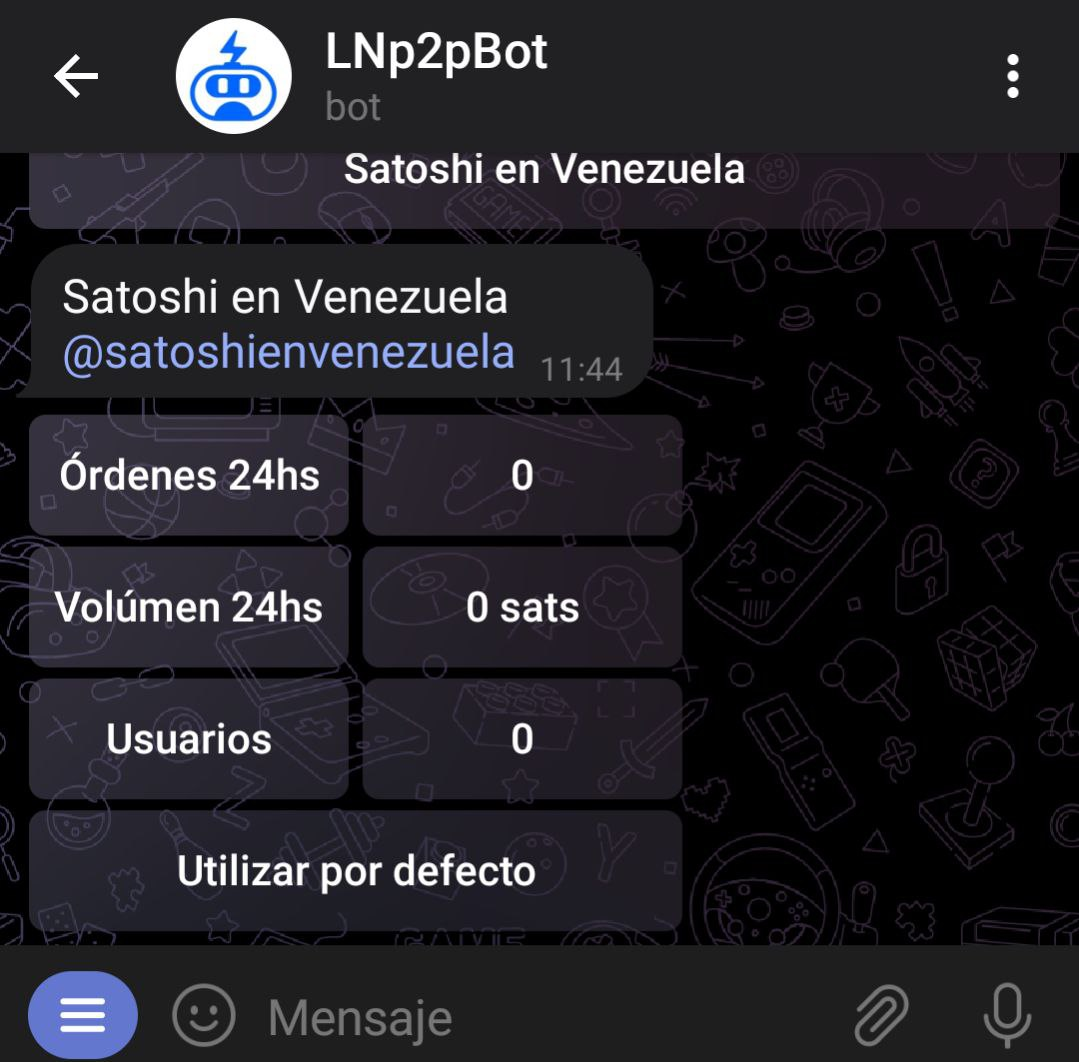
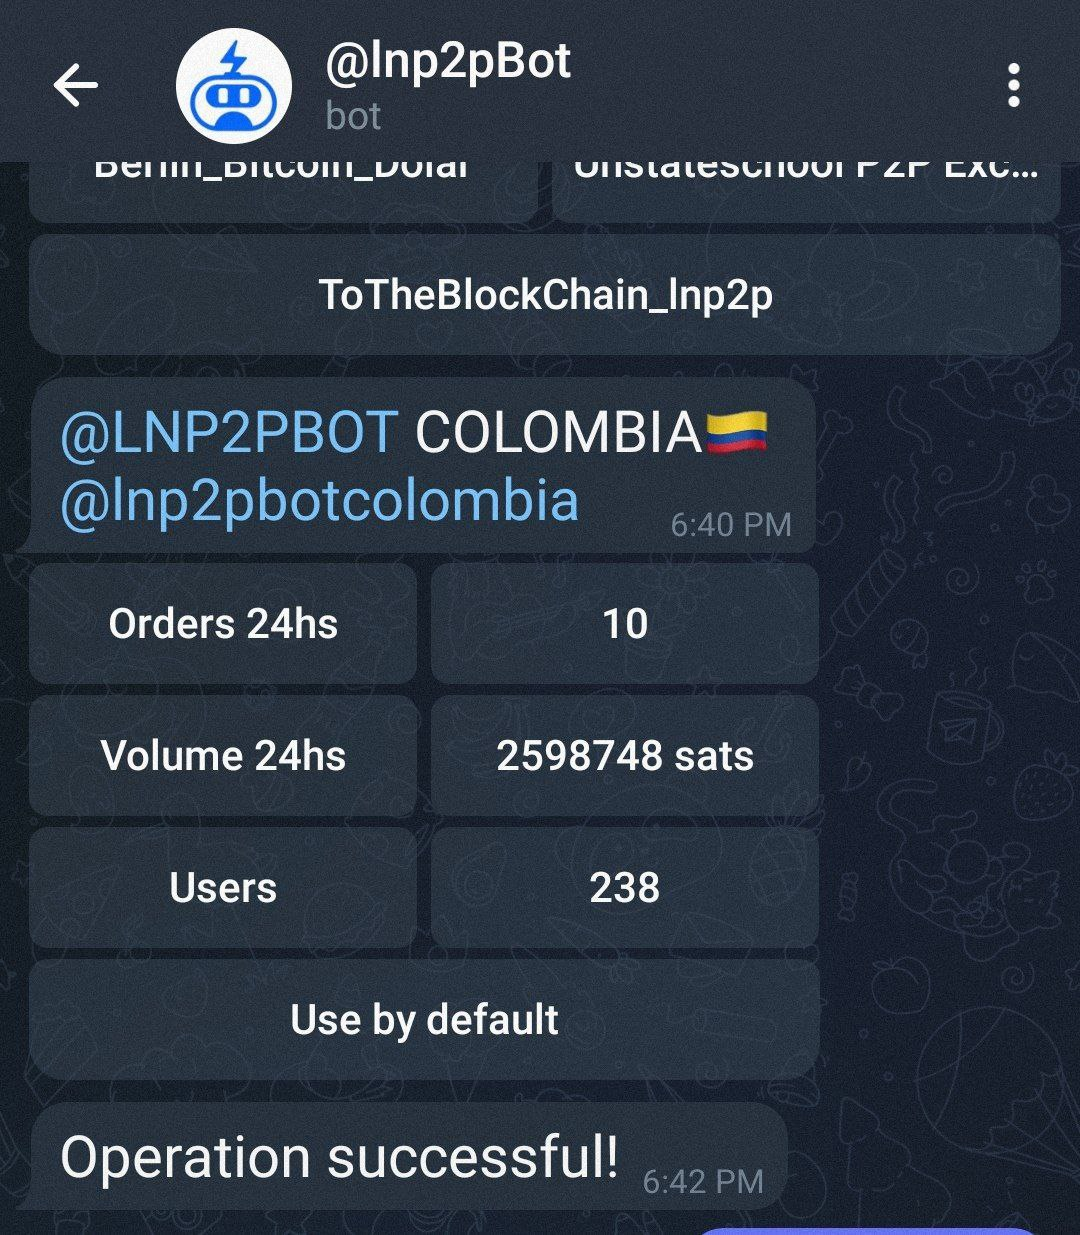
Update how use by default a community

diff --git a/spanish/src/how-do-i-make-offers-in-a-community.md b/spanish/src/how-do-i-make-offers-in-a-community.md
@@ -1,0 +1,37 @@
+# ¿Cómo publico ofertas en una comunidad?
+Cuando comienzas a usar [@lnp2pBot](https://t.me/lnp2pbot) las órdenes que creas son publicadas por defecto en [https://t.me/p2plightning](https://t.me/p2plightning) que es el canal general donde puedes encontrar ofertas en varias monedas fíat.
+
+Si quieres publicar ofertas en un canal que sea específico para tu moneda, debes hacerlo a través de alguna [comunidad](./communities.md) que la tenga incorporada. 
+
+- Puedes buscar cuáles son todas las comunidades que operan con la moneda deseada en [https://market.lnp2pbot.com](https://market.lnp2pbot.com).
+
+- También puedes escribir dentro del bot:
+
+`/findcomms <fiat code>`
+
+Por ejemplo `/findcomms usd` se utiliza para buscar todas las comunidades que comercian con USD. Si no sabes cuál es el código de tu moneda, escribe dentro del bot `/listcurrencies` y encuéntralo.
+
+![Find Community Capture](./assets/images/findcomms.jpg)
+
+Al seleccionar alguna comunidad el bot mostrará la cantidad de órdenes exitosas, el volumen de comercio operado en las últimas 24 horas, y la cantidad de usarios que publican sus ofertas allí. Para configurar en cuál comunidad quieres pubicar tus ofertas, debes seleccionar el botón "Utilizar por defecto".
+
+![Community details Capture](./assets/images/comm-detail.jpg)
+
+- Otra forma de hacerlo es escribir: 
+`/setcomm <@communityGroupName | telegram-group-id>` (`/setcomm` junto con el nombre del grupo, o su ID de telegram).
+
+Para crear una orden dentro de alguna comunidad se usa el comando `/buy` o `/sell` dependiendo de lo que se quiera. A partir de ahí el bot te dará las intrucciones paso a paso y tu oferta se publicará en la comunidad seleccionada.
+
+![Community Wizard Capture](./assets/images/sell.jpg)
+
+## Más información:
+- Solo puedes tener configurada por defecto una comunidad a la vez, y por tanto todas tus ofertas se publicarán allí.
+
+- Para salir de una comunidad y volver a publicar ofertas en el [canal general](https://t.me/p2plightning), debes escribir:
+`/setcomm off`
+
+- Si quieres publicar una oferta en varias comunidades a la vez, debes crearla en cada una por separado: primero la publicas en una, luego configuras otra para usar por defecto y publicas allí también, y así en todas las que la quieras poner.
+
+Otra manera es escribir tu orden en forma de comando dentro del chat de una comunidad que tenga el bot como administrador, pues este la reconocerá y publicará la oferta en esa comunidad sin que tengas que configurarla por defecto.
+
+- Puedes tomar ofertas de todas las comunidades que quieras sin tener que configurar ninguna por defecto.

diff --git a/spanish/src/SUMMARY.md b/spanish/src/SUMMARY.md
@@ -22,7 +22,7 @@
   - [¿Qué tasa de cambio utiliza el bot?](./what-exchange-rate-does-the-bot-use.md)
   - [¿En qué países está disponible?](./in-which-countries-is-it-available.md)
   - [¿Cómo puedo encontrar comunidades que operen con mi moneda?](community-find.md)
-  - [¿Cómo compro en una determinada comunidad?](./How-do-i-buy-in-a-community.md)
+  - [¿Cómo publico ofertas en una comunidad?](./how-do-i-make-offers-in-a-community.md)
   - [Wallets recomendadas](./recommended-wallets.md)
   - [Problemas comunes y soluciones](common-problems-and-solutions.md)
   - [¿Cómo sé si el vendedor realmente liberó los sats?](how-do-i-know-if-seller-released.md)
